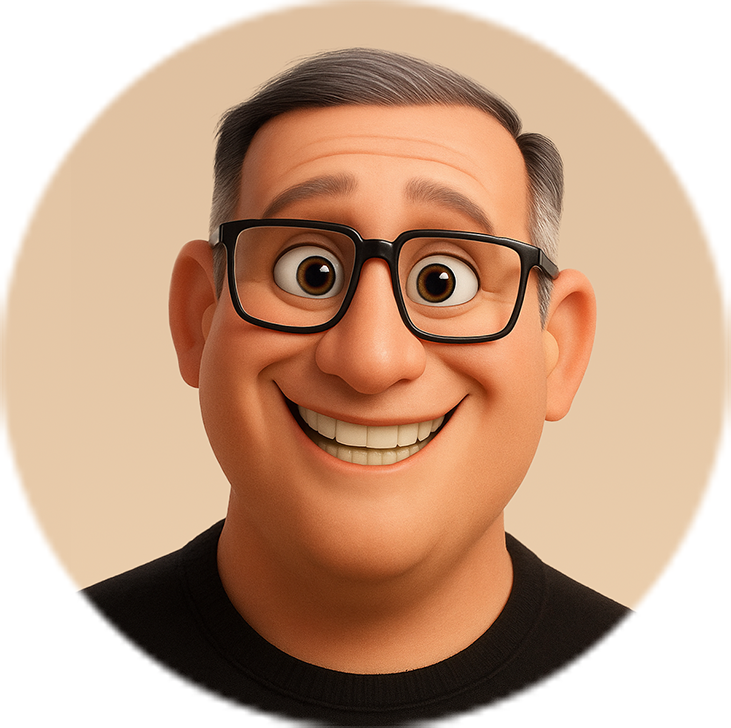
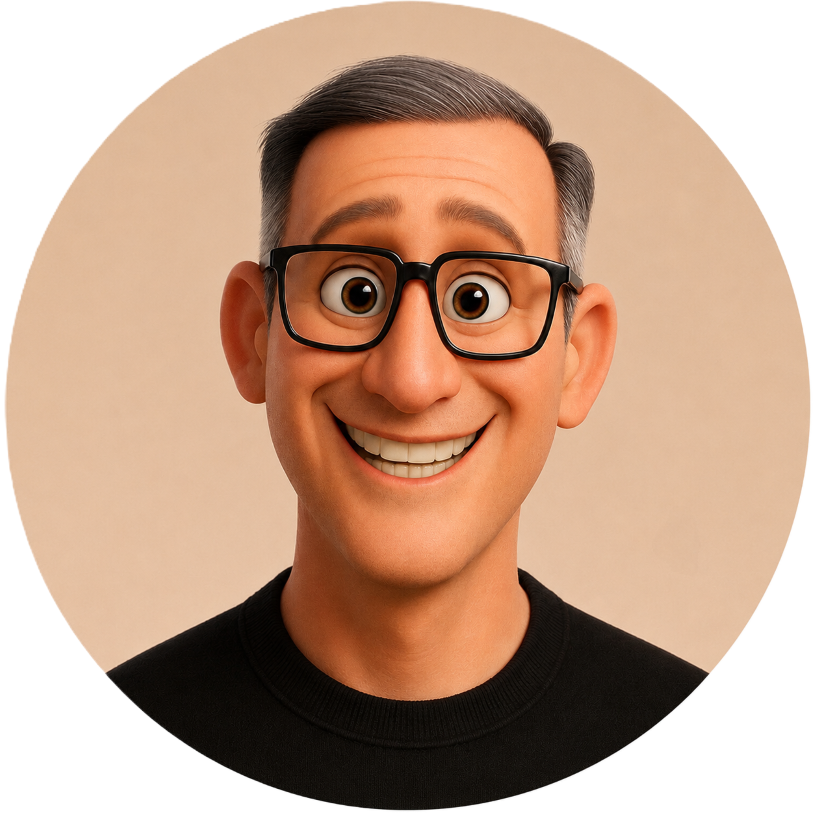
Alterado a foto do Mateus

diff --git a/src/components/home/AboutUs.tsx b/src/components/home/AboutUs.tsx
@@ -1,17 +1,9 @@
 import Link from "next/link";
 import Image from "next/image";
 import { Users, ArrowRight, Sparkles } from "lucide-react";
+import team from "@/mocks/team";
 
 export default function AboutUs() {
-  const team = [
-    { name: "André", role: "O Cara", avatar: "/team/andre-abertura.png" },
-    { name: "Capelli", role: "Dev / Player Linear", avatar: "/team/cappeli-abertura.png" },
-    { name: "Fael", role: "Lenda", avatar: "/team/fae-abertura.png" },
-    { name: "Ique", role: "Pai dos games", avatar: "/team/ique-abertura.png" },
-    { name: "Mateus", role: "Manja do Indie", avatar: "/team/mateus-abertura.png" },
-    { name: "Patrão", role: "Crítico de Plantão", avatar: "/team/patrao-abertura.png" },
-    { name: "inTúlio", role: "Dev / Player FPS", avatar: "/team/tulio-abertura.png" },
-  ];
 
   return (
     <section className="relative max-w-7xl mx-auto px-6 py-20 bg-[#0c0c14]/40 border border-white/5 rounded-3xl mb-16 overflow-hidden backdrop-blur-sm shadow-[0_0_50px_-12px_rgba(168,85,247,0.15)]">
